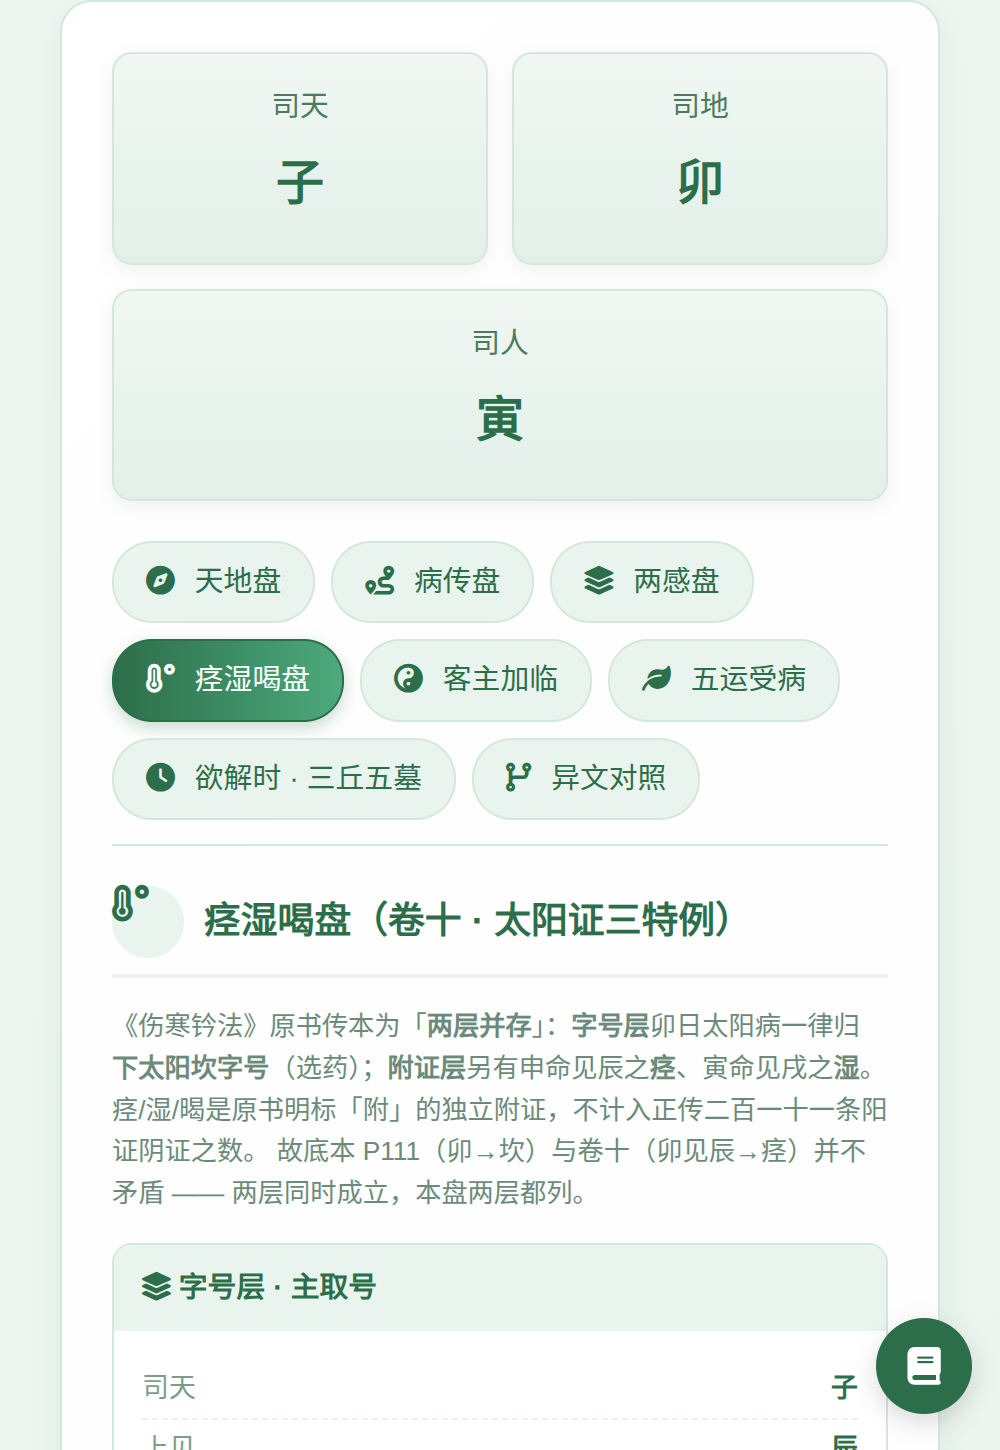
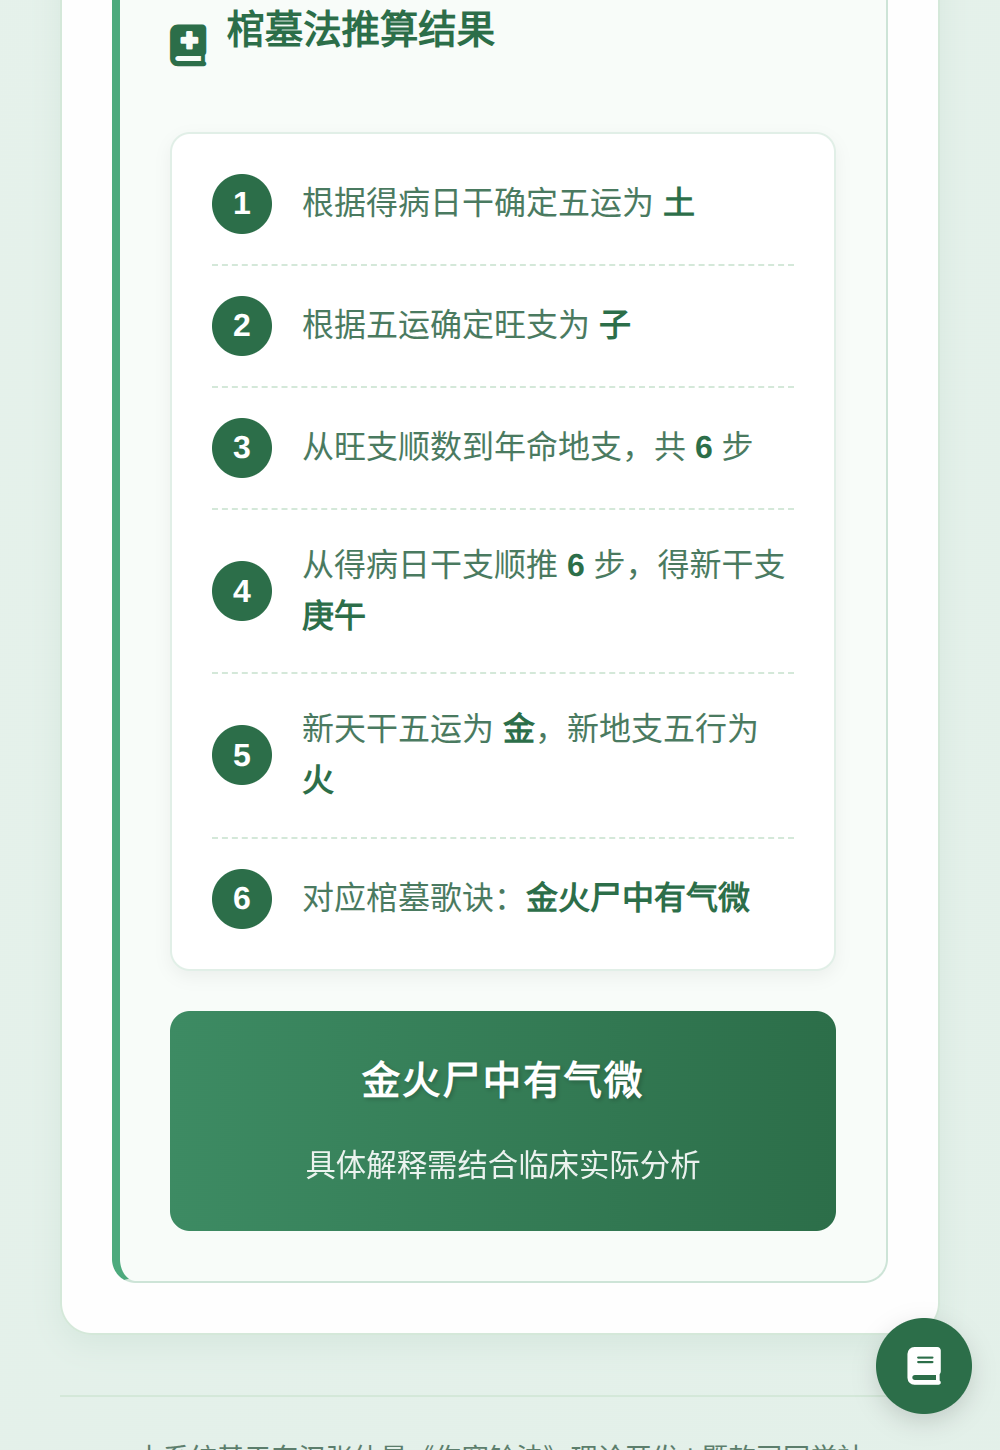
fix(l22): SC09 截图与左列对齐（画面音频不一致）
问题：ui-06-coffin.png 实际内容是「痉湿喝盘」，但 SC09 左列写的是
「棺墓法/五运定墓/凶险断语」——口播说「多会儿会嘎」，画面给的却是痉湿喝。

修法：
- 重拍 ui-06-coffin.png：滚到「棺墓法推算结果」区，截到真实内容
  （六步推演 + 歌诀「金火尸中有气微」+ 凶险提示）
- SC09 左列改为截图里真实的三步：五运定墓 / 旺支顺推六步 / 对应棺墓歌诀
  hot 指向第 3 项（对应截图第 6 步）

核对：10 张素材逐张与 spec 配对，仅此一处错配已修

diff --git a/qianfa-l22/src/qianfa/spec.ts b/qianfa-l22/src/qianfa/spec.ts
@@ -45,7 +45,7 @@ export const SHOT_SPECS: Record<string, ShotSpec> = {
   // 感冒 → 汗瘥（甲丁日卡）
   SC08: {kind: 'appshot', shot: {title: "我感冒了", sub: "想知道不吃药多会儿会好", items: ["汗瘥法", "解厄日期", "公历换算"], hot: 1, shot: "ui-05-hancuo.png"}},
   // 快嘎 → 棺墓
-  SC09: {kind: 'appshot', shot: {title: "病的严重", sub: "快嘎了，多会儿会嘎", items: ["棺墓法", "五运定墓", "凶险断语"], hot: 1, shot: "ui-06-coffin.png"}},
+  SC09: {kind: 'appshot', shot: {title: "病的严重", sub: "快嘎了，多会儿会嘎", items: ["五运定墓", "旺支顺推六步", "对应棺墓歌诀"], hot: 2, shot: "ui-06-coffin.png"}},
 
   // 没病 → 五运（每月不一样）
   SC10: {kind: 'appshot', shot: {title: "治胃袋，额不，未病", sub: "预防季节性疾病", items: ["五运受病", "客主加临", "按月推算"], hot: 0, shot: "ui-07-wuyun.png"}},
